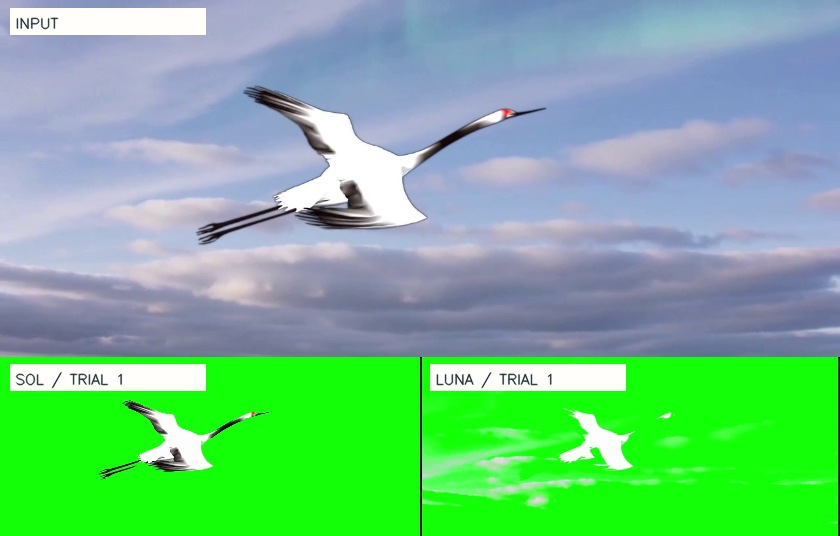
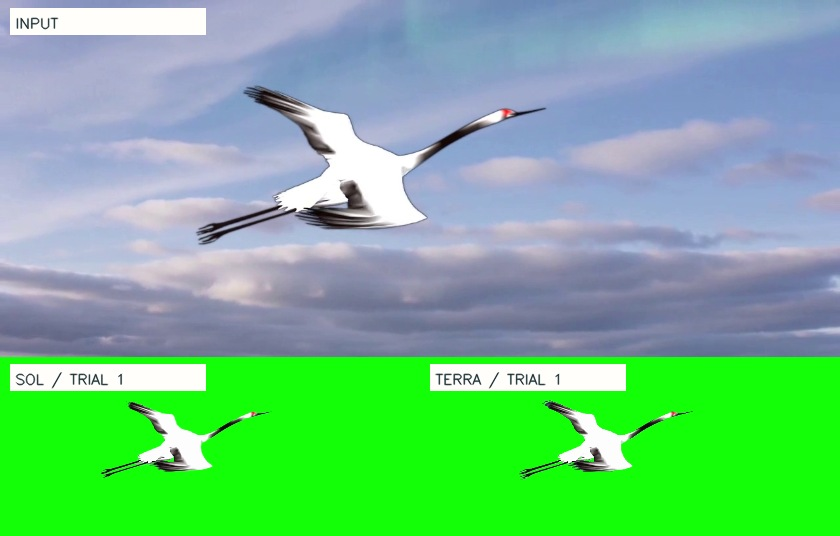
Update crane xhigh results and Sol six-case mean

diff --git a/ale-reproduction/index.html b/ale-reproduction/index.html
@@ -12,9 +12,9 @@ permalink: /ale-reproduction/
 <nav class="topline" aria-label="站点导航"><a href="/omniale/">← OmniALE 案例集</a><a href="https://github.com/rdi-berkeley/agents-last-exam">Agents Last Exam ↗</a></nav>
 <header><div class="eyebrow">OMNIALE · ALE REPRODUCTION</div><h1>ALE Omni Case 复现</h1>
 <p class="lead">每个案例收录任务定义、运行结果、轨迹与失败分析。</p></header>
-<section class="average" aria-labelledby="average-heading"><div class="average-heading"><h2 id="average-heading">gpt-6.1-sol · 6题等权平均</h2><p class="average-value">59.91 <span>/ 100</span></p></div>
+<section class="average" aria-labelledby="average-heading"><div class="average-heading"><h2 id="average-heading">gpt-6.1-sol · 6题等权平均</h2><p class="average-value">59.67 <span>/ 100</span></p></div>
 <p>体操按部分分50计；其余采用各案例当前汇总分，按原始精度计算，每题权重相同。</p>
-<details><summary>查看分数与推理强度</summary><div class="average-table"><table><thead><tr><th>案例</th><th>Sol 推理强度</th><th>计入分 /100</th><th>口径</th></tr></thead><tbody><tr><td>从管弦乐录音，转写完整总谱</td><td>xhigh</td><td>12.53</td><td>汇总采用分</td></tr><tr><td>看清难度动作，写对每一个 FIG 编码</td><td>xhigh</td><td>50.00</td><td>部分分</td></tr><tr><td>把交响乐工程迁到 Linux，恢复原有声音</td><td>xhigh</td><td>48.51</td><td>汇总采用分</td></tr><tr><td>从天空中的白鹤，分离出完整绿幕主体</td><td>high</td><td>51.00</td><td>汇总采用分</td></tr><tr><td>看动画，编写修复前镜头日志</td><td>high</td><td>100.00</td><td>汇总采用分</td></tr><tr><td>让蝴蝶原图振翅，沿曲线飞行</td><td>high</td><td>97.40</td><td>汇总采用分</td></tr></tbody></table></div>
+<details><summary>查看分数与推理强度</summary><div class="average-table"><table><thead><tr><th>案例</th><th>Sol 推理强度</th><th>计入分 /100</th><th>口径</th></tr></thead><tbody><tr><td>从管弦乐录音，转写完整总谱</td><td>xhigh</td><td>12.53</td><td>汇总采用分</td></tr><tr><td>看清难度动作，写对每一个 FIG 编码</td><td>xhigh</td><td>50.00</td><td>部分分</td></tr><tr><td>把交响乐工程迁到 Linux，恢复原有声音</td><td>xhigh</td><td>48.51</td><td>汇总采用分</td></tr><tr><td>从天空中的白鹤，分离出完整绿幕主体</td><td>xhigh</td><td>49.57</td><td>汇总采用分</td></tr><tr><td>看动画，编写修复前镜头日志</td><td>high</td><td>100.00</td><td>汇总采用分</td></tr><tr><td>让蝴蝶原图振翅，沿曲线飞行</td><td>high</td><td>97.40</td><td>汇总采用分</td></tr></tbody></table></div>
 <p>各案例有多次运行时，先取该案例已公布的汇总成绩，再计算题间均值。high和xhigh分别标明；各题运行与评分条件见详情。</p><a href="cases.json">完整精度与计算明细 JSON</a></details></section><section id="cases" aria-labelledby="case-heading"><div class="collection-heading"><h2 id="case-heading">复现案例</h2><span class="count">6 个案例</span></div>
 <a class="case" id="music" href="https://wang-jiahao.github.io/omniale/ale-music-transcription/" aria-labelledby="title-music">
 <div class="cover"><img src="assets/music.jpg" width="840" height="540" alt="本轮独立转谱交付在MuseScore中的实际画面"><span class="cover-label" aria-hidden="true">实际交付 · MuseScore</span></div>
@@ -32,10 +32,10 @@ permalink: /ale-reproduction/
 <h3 id="title-migration">把交响乐工程迁到 Linux，恢复原有声音</h3><p class="desc">原工程的商业音源和效果器不可用，Agent需在Ardour中选择开源替代，保留音符、奏法、强弱和路由，交付可编辑工程、完整混音与独立分轨。</p>
 <div class="card-footer"><p class="score">gpt-6.1-sol<strong>48.51 / 100</strong></p><span class="destination">walnutpz 复现 · 查看案例 ↗</span></div></div></a>
 <a class="case" id="crane" href="https://huayuankou333.github.io/omniale/ale-crane-keying/" aria-labelledby="title-crane">
-<div class="cover"><img src="assets/crane.jpg" width="840" height="540" alt="真实白鹤输入帧及Sol、Luna第1轮的实际绿幕抠像成片"><span class="cover-label" aria-hidden="true">真实输入与交付 · Resolve / Fusion</span></div>
+<div class="cover"><img src="assets/crane.jpg" width="840" height="540" alt="真实白鹤输入帧及Sol、Terra第1轮的实际绿幕抠像成片"><span class="cover-label" aria-hidden="true">真实输入与交付 · Resolve / Fusion</span></div>
 <div class="body"><div class="badge">视觉媒体与视频后期<span class="scenario">参考引导抠像</span></div>
-<h3 id="title-crane">从天空中的白鹤，分离出完整绿幕主体</h3><p class="desc">从约10秒的天空视频中分离运动白鹤，保留羽翼、颈腿和完整运动，在Resolve/Fusion中交付可编辑工程及绿幕成片。Sol、Luna各三次独立运行，提供同步成片对照、逐帧评分与工具轨迹。</p>
-<div class="card-footer"><p class="score">gpt-6.1-sol<strong>51.0 / 100</strong> · gpt-6-luna <span>18.6 / 100</span></p><span class="destination">huayuankou333 复现 · 查看案例 ↗</span></div></div></a>
+<h3 id="title-crane">从天空中的白鹤，分离出完整绿幕主体</h3><p class="desc">从约10秒的天空视频中分离运动白鹤，保留羽翼、颈腿和完整运动，在Resolve/Fusion中交付可编辑工程及绿幕成片。Sol、Terra各三次独立运行，提供同步成片对照、逐帧评分与工具轨迹。</p>
+<div class="card-footer"><p class="score">gpt-6.1-sol<strong>49.6 / 100</strong> · gpt-6.1-terra <span>43.2 / 100</span></p><span class="destination">huayuankou333 复现 · 查看案例 ↗</span></div></div></a>
 <a class="case" id="storyboard" href="https://nanxiang-git.github.io/ALE_reproduce/ALE_repro/dashboard/dist/index.html" aria-labelledby="title-storyboard">
 <div class="cover"><img src="assets/storyboard.jpg" width="840" height="540" alt="老动画《A Wolf is a Wolf》的实际输入画面"><span class="cover-label" aria-hidden="true">任务输入 · 老动画</span></div>
 <div class="body"><div class="badge">档案检索与证据研究<span class="scenario">动画镜头日志与事实核查</span></div>
